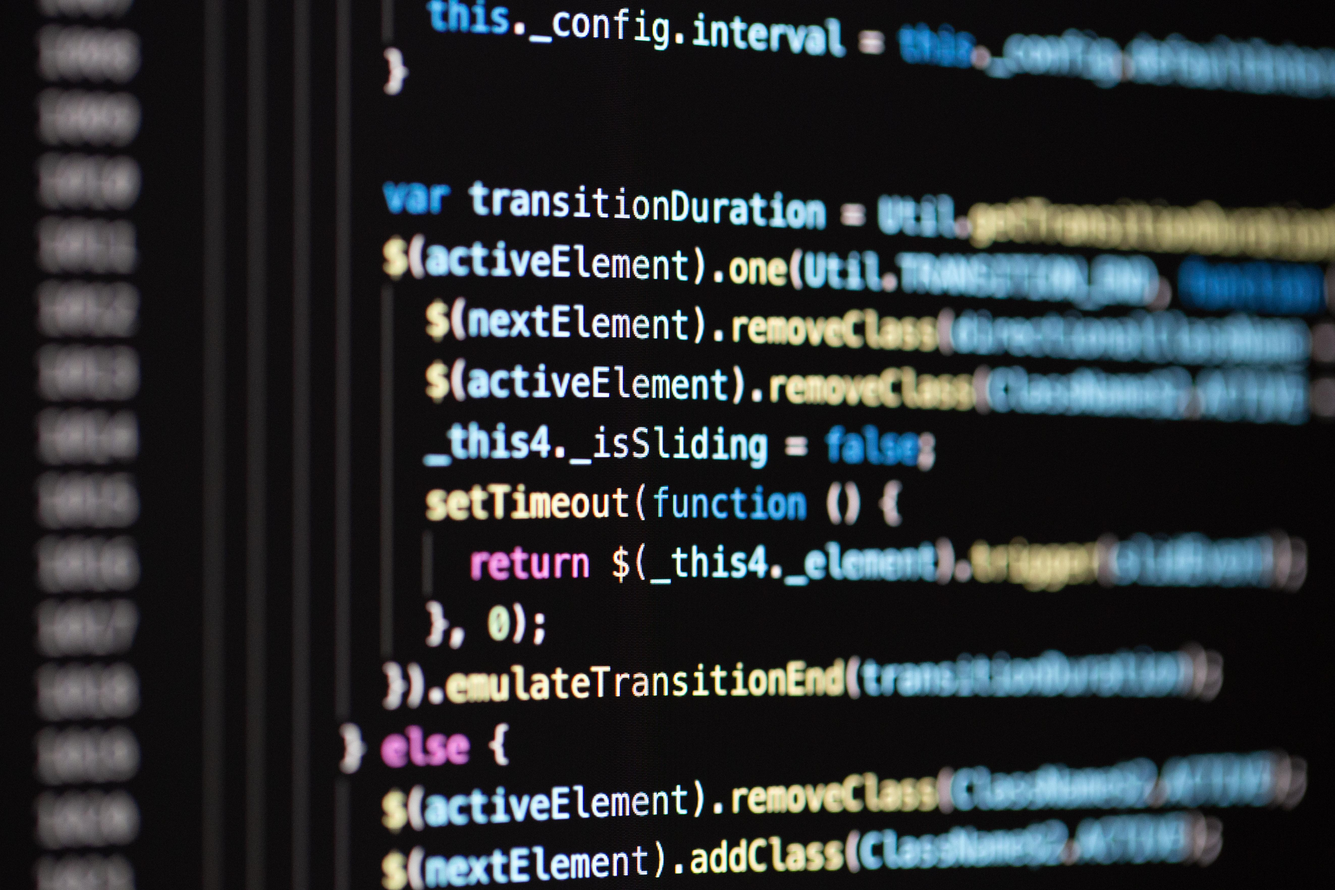
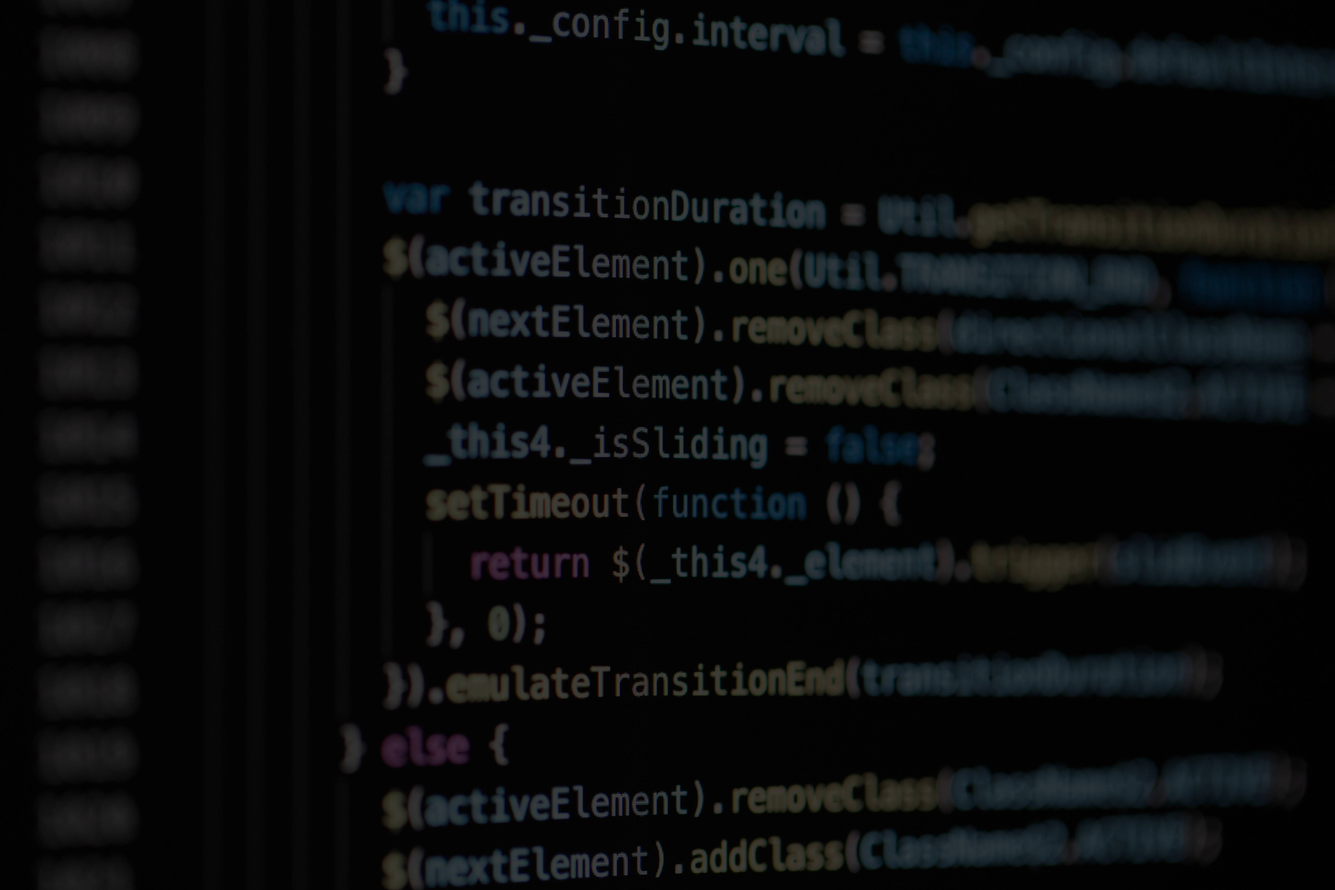
modificacion de imagen de fondo

diff --git a/css/index.css b/css/index.css
@@ -1,10 +1,21 @@
 
-body {
+.body {
     /* background-color: black; */
     background: url(../assets/img/fondo.jpg) no-repeat center center fixed;
     background-size: cover;
+    /* position: relative; */
 
 }
+
+/* .body:before {
+	content:'';
+	position: absolute;
+    top: 0;
+	bottom: 0;
+	left: 0;
+	right: 0;
+	background-color: rgba(0,0,0,0.6);
+} */
 
 .title-header {
     /* background-color: #000000; */

diff --git a/index.html b/index.html
@@ -87,10 +87,6 @@
           <h4>IDEs</h4>
             <p id="p-editors"></p>
         </div>
-        
-        
-      
-      
       </div>
     </div>
 
